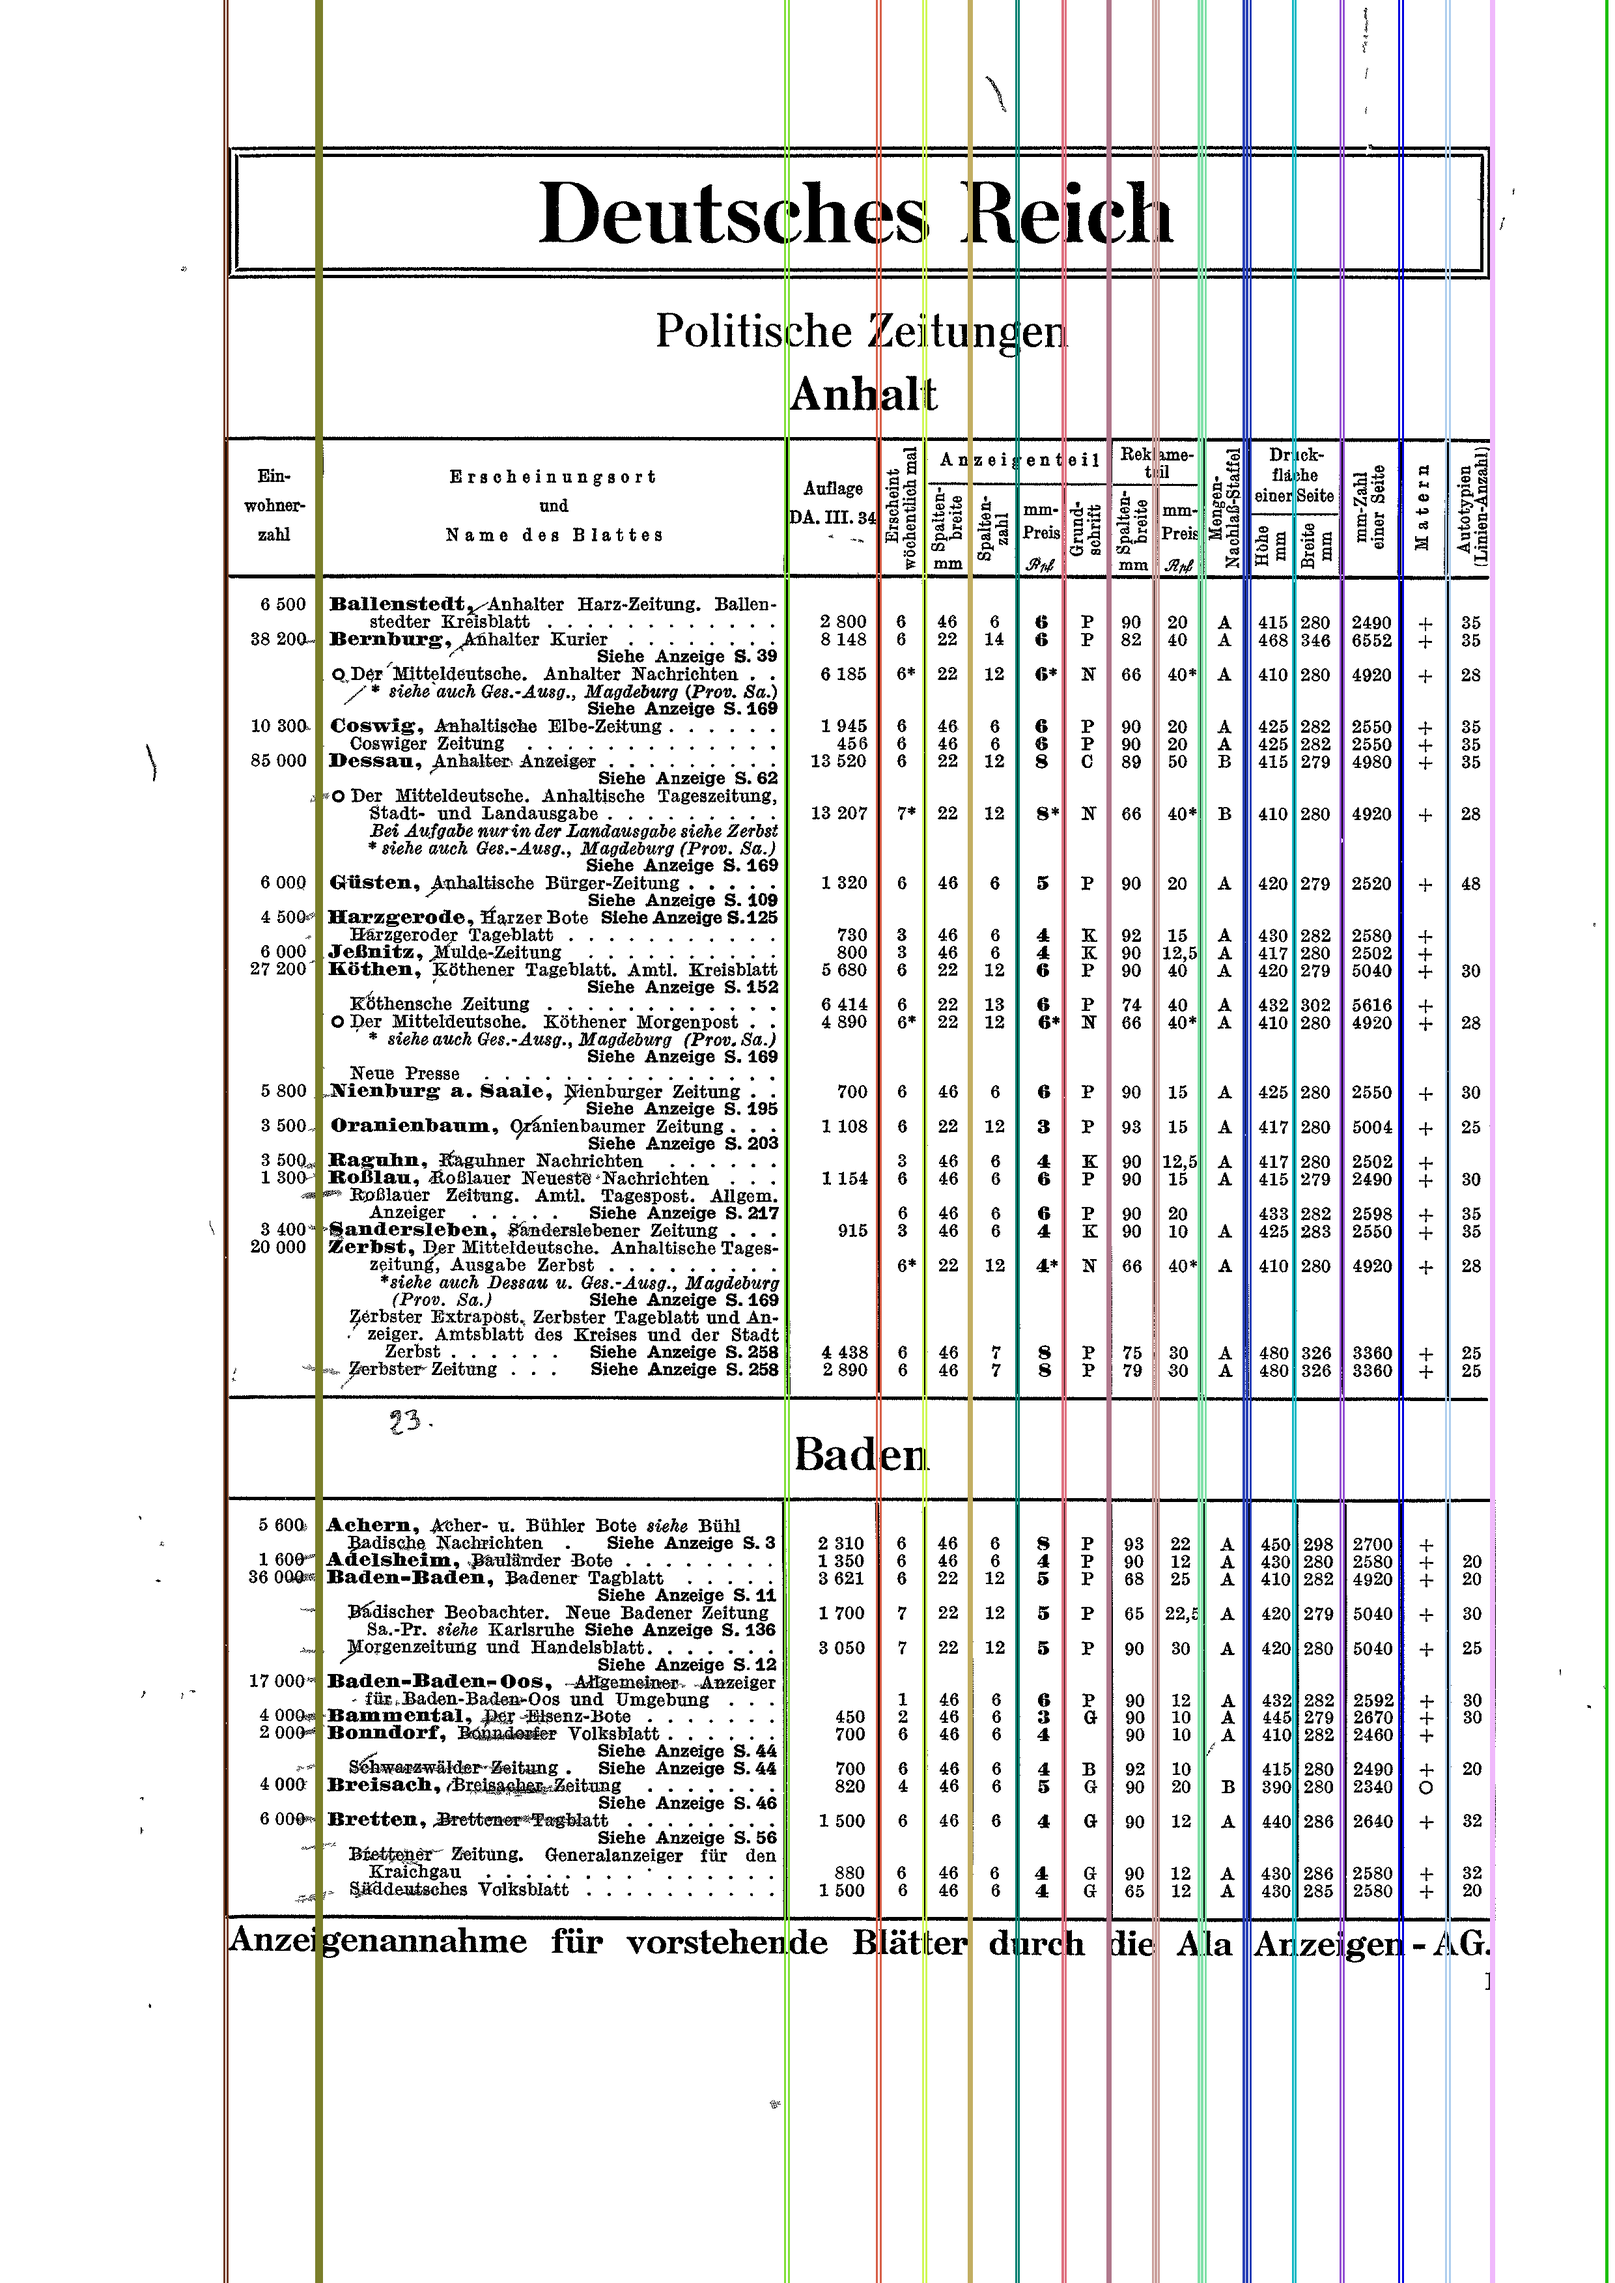
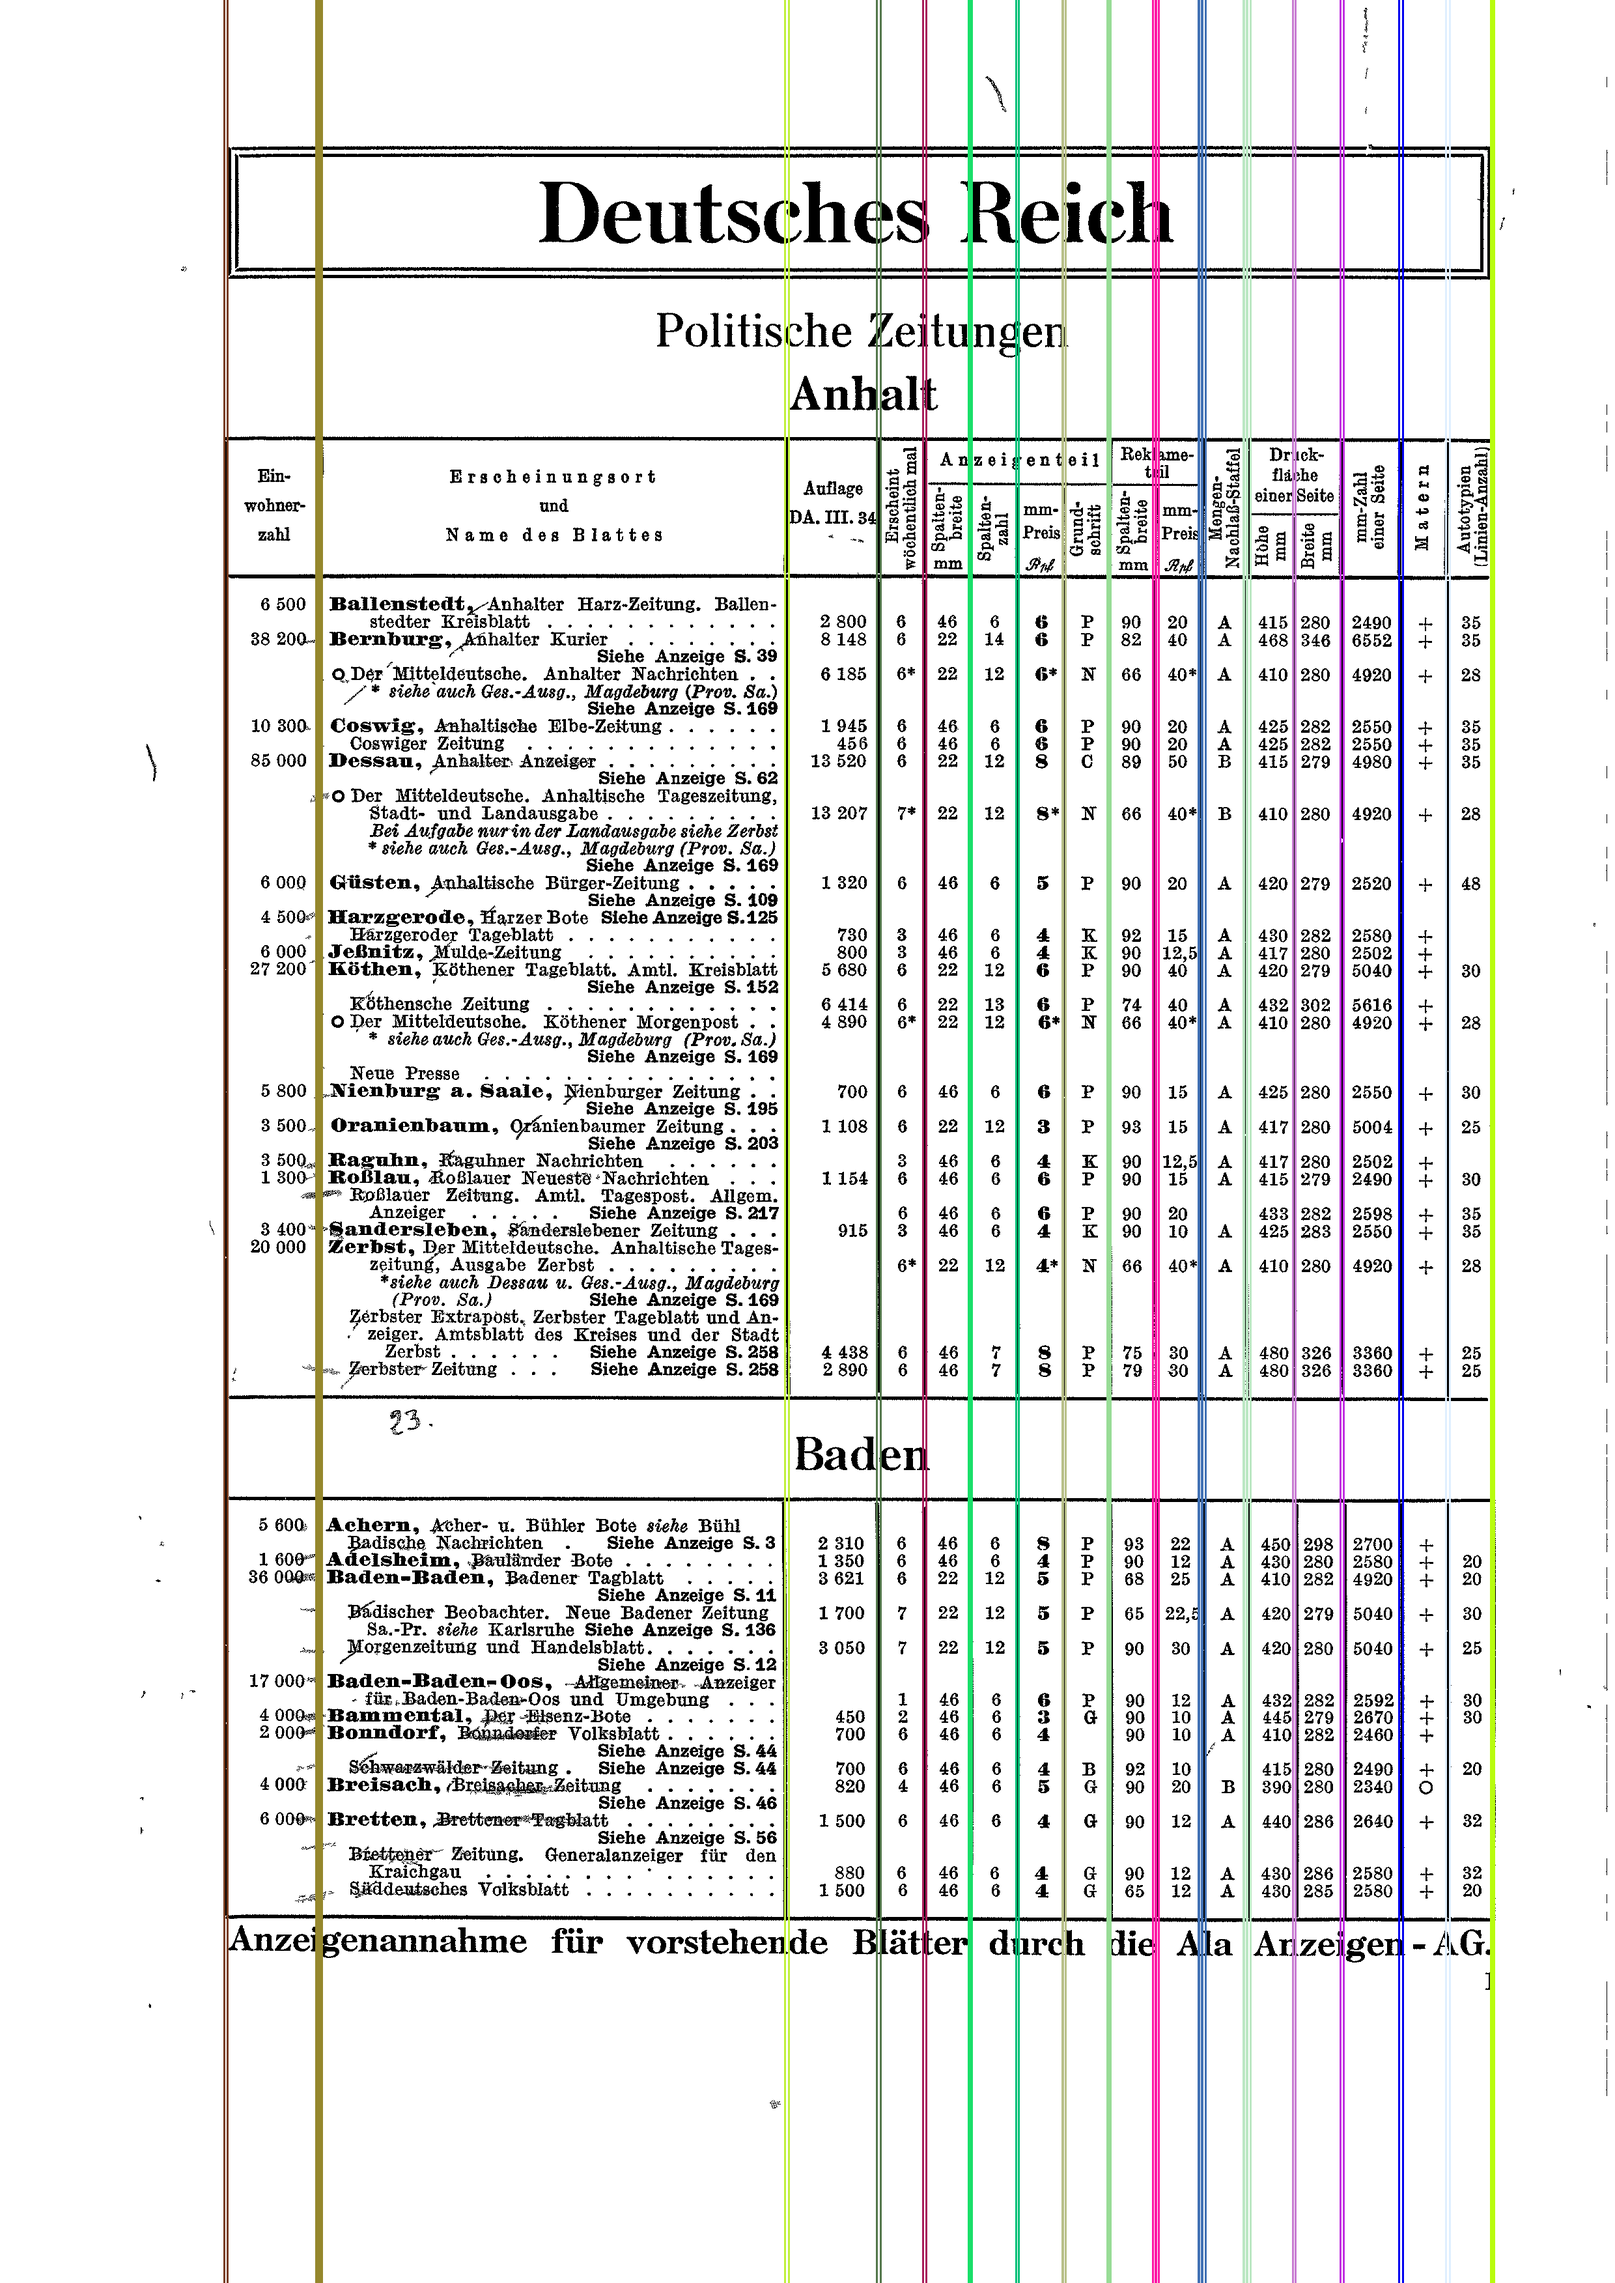
added option to remove empty clusters in ImageProc.find_clusters

diff --git a/pdftabextract/clustering.py b/pdftabextract/clustering.py
@@ -13,6 +13,7 @@ import numpy as np
 
 from pdftabextract.common import (fill_array_a_with_values_from_b, sorted_by_attr, flatten_list,
                                   DIRECTION_HORIZONTAL, DIRECTION_VERTICAL)
+from pdftabextract.textboxes import split_texts_by_positions
 
 
 #%% Clustering
@@ -50,9 +51,7 @@ def find_clusters_1d_break_dist(vals, dist_thresh):
 
 
 #%% Cluster adjustment
-
-def get_adjusted_cluster_centers(clusters, n_required_clusters, max_range_deviation,
-                                 find_center_clusters_method, **kwargs):
+def get_adjusted_cluster_centers(clusters, n_required_clusters, find_center_clusters_method, **kwargs):
     """
     From a dict containing clusters per page, find the cluster centers and apply some adjustments to them
     (filter bad values, interpolate missing values).
@@ -62,7 +61,6 @@ def get_adjusted_cluster_centers(clusters, n_required_clusters, max_range_deviat
     If parameter <return_center_clusters_diffsums> is True, additionally return a dict with summed differences between
     found centers and "model" centers as quality measure.
     <n_required_clusters> is the number of cluster centers (i.e. number of columns or lines) to be found.
-    <max_range_deviation> is the maximum deviation of the centers range of a page from the median range.
     <find_center_clusters_method> is the clustering method to cluster aligned ("normalized") centers (<kwargs> will
     be passed to this function).
     <image_scaling> is an optional parameter: dict with page number -> <scaling> mapping with which the
@@ -71,32 +69,19 @@ def get_adjusted_cluster_centers(clusters, n_required_clusters, max_range_deviat
     return_center_clusters_diffsums = kwargs.pop('return_center_clusters_diffsums', False)
     image_scaling = kwargs.pop('image_scaling', None)
     
-    # 1. Filter for pages with clusters whose min/max range is acceptable
-    # (i.e. the deviation from the median is below a certain threshold)
-    all_clusters_centers_range = {}
+    # 1. Align the cluster centers so that they all start with 0 and create a flat list that contains all centers
     all_clusters_centers = {}
     for p_num, clusters_w_vals in clusters.items():
-        all_clusters_centers_range[p_num], all_clusters_centers[p_num] = calc_cluster_centers_range(clusters_w_vals,
-                                                                                                    return_centers=True)
-    median_range = np.median(list(all_clusters_centers_range.values()))
+        all_clusters_centers[p_num] = calc_cluster_centers_1d(clusters_w_vals)
     
-    good_page_nums = [p_num for p_num, centers_range in all_clusters_centers_range.items()
-                      if abs(centers_range - median_range) <= max_range_deviation]
-    
-    if len(good_page_nums) < 1:
-        raise RuntimeError('At least one page with clusters that have an accaptable min/max range must be found.')
-
-    good_cluster_centers = {p_num: all_clusters_centers[p_num] for p_num in good_page_nums}
-    
-    # 2. Align the cluster centers so that they all start with 0 and create a flat list that contains all centers
     centers_norm = []
-    for p_num, centers in good_cluster_centers.items():
+    for p_num, centers in all_clusters_centers.items():
         centers = np.array(centers)
         centers_norm.extend(centers - centers[0])
     
     centers_norm = np.array(centers_norm)
 
-    # 3. Clustering second pass: Cluster aligned ("normalized") centers and filter them
+    # 2. Clustering second pass: Cluster aligned ("normalized") centers and filter them
     centers_norm_clusters_ind = find_center_clusters_method(centers_norm, **kwargs)
     centers_norm_clusters = zip_clusters_and_values(centers_norm_clusters_ind, centers_norm)
     
@@ -118,7 +103,7 @@ def get_adjusted_cluster_centers(clusters, n_required_clusters, max_range_deviat
     
     center_norm_medians = np.array(sorted(center_norm_medians))
 
-    # 4. Adjust the cluster centers by finding the best matching array to <center_norm_medians> if sizes differ
+    # 3. Adjust the cluster centers by finding the best matching array to <center_norm_medians> if sizes differ
     adjusted_centers = {}
     diffsums = {} if return_center_clusters_diffsums else None
     for p_num, centers in all_clusters_centers.items():
@@ -139,9 +124,26 @@ def get_adjusted_cluster_centers(clusters, n_required_clusters, max_range_deviat
         return adjusted_centers, diffsums
     else:
         return adjusted_centers
+
+
+def remove_empty_sections(positions, texts, direction, considered_empty_ratio):
+    if direction not in (DIRECTION_HORIZONTAL, DIRECTION_VERTICAL):
+        raise ValueError("direction must be  DIRECTION_HORIZONTAL or DIRECTION_VERTICAL (see pdftabextract.common)")
         
+    texts_in_secs = split_texts_by_positions(texts, positions, direction,
+                                             discard_empty_sections=False,
+                                             enrich_with_positions=True)
+    max_n_texts = max(map(len, [tup[0] for tup in texts_in_secs]))
+    n_texts_thresh = round(max_n_texts * considered_empty_ratio)
+    filtered_positions = []
+    for texts, (_, pos) in texts_in_secs:
+        if len(texts) > n_texts_thresh:
+            filtered_positions.append(pos)
+    
+    return filtered_positions
+
         
-def merge_overlapping_sections(texts_in_secs, direction, overlap_thresh):
+def merge_overlapping_sections_of_texts(texts_in_secs, direction, overlap_thresh):
     """
     Merge overlapping sections of texts in <direction> whose consecutive
     "distance" or overlap (when the distance is negative) is less than <overlap_thresh>.
@@ -184,9 +186,9 @@ def merge_overlapping_sections(texts_in_secs, direction, overlap_thresh):
     assert len(flatten_list(texts_in_secs)) == len(flatten_list(merged_secs))
     
     return merged_secs
+    
 
-
-def merge_small_sections(texts_in_secs, min_num_texts):
+def merge_small_sections_of_texts(texts_in_secs, min_num_texts):
     """
     Merge sections that are too small, i.e. have too few "content" which means that their number
     of texts is lower than or equal <min_num_texts>.

diff --git a/pdftabextract/imgproc.py b/pdftabextract/imgproc.py
@@ -17,7 +17,6 @@ from pdftabextract.common import ROTATION, SKEW_X, SKEW_Y, DIRECTION_HORIZONTAL,
 from pdftabextract.geom import normalize_angle, project_polarcoord_lines
 from pdftabextract.clustering import zip_clusters_and_values
 
-
 PIHLF = np.pi / 2
 PI4TH = np.pi / 4
 
@@ -87,7 +86,6 @@ class ImageProc:
         
         return self.lines_hough
 
-    
     def ab_lines_from_hough_lines(self, lines_hough):
         """
         From a list of lines <lines_hough> in polar coordinate space, generate lines in cartesian coordinate space
@@ -174,7 +172,14 @@ class ImageProc:
 
         return None, None
     
-    def find_clusters(self, direction, method, **method_kwargs):
+    def find_clusters(self, direction, method, **kwargs):
+        remove_empty_cluster_sections_use_texts = kwargs.pop('remove_empty_cluster_sections_use_texts', None)
+        if remove_empty_cluster_sections_use_texts is not None:
+            remove_empty_cluster_sections_n_texts_ratio = kwargs.pop('remove_empty_cluster_sections_n_texts_ratio')
+            remove_empty_cluster_sections_scaling = kwargs.pop('remove_empty_cluster_sections_scaling')
+            remove_empty_cluster_sections_clust_center_fn = kwargs.pop('remove_empty_cluster_sections_clust_center_fn',
+                                                                       np.median)
+        
         if direction not in (DIRECTION_HORIZONTAL, DIRECTION_VERTICAL):
             raise ValueError("invalid value for 'direction': '%s'" % direction)
         
@@ -186,7 +191,7 @@ class ImageProc:
         coord_idx = 0 if direction == DIRECTION_VERTICAL else 1
         positions = np.array([(l[0][coord_idx] + l[1][coord_idx]) / 2 for l in lines_ab])
         
-        clusters = method(positions, **method_kwargs)
+        clusters = method(positions, **kwargs)
         
         if type(clusters) != list:
             raise ValueError("'method' returned invalid clusters (must be list)")
@@ -194,7 +199,41 @@ class ImageProc:
         if len(clusters) > 0 and type(clusters[0]) != np.ndarray:
             raise ValueError("'method' returned invalid cluster elements (must be list of numpy.ndarray objects)")
         
-        return zip_clusters_and_values(clusters, positions)
+        clusters_w_vals = zip_clusters_and_values(clusters, positions)
+        
+        if remove_empty_cluster_sections_use_texts is not None:
+            if direction == DIRECTION_HORIZONTAL:
+                t_attr = 'top', 'bottom'
+            else:
+                t_attr = 'left', 'right'
+                
+            clusters_w_vals_and_centers = [(ind, vals, remove_empty_cluster_sections_clust_center_fn(vals) / remove_empty_cluster_sections_scaling)
+                                           for ind, vals in clusters_w_vals]
+            clusters_w_vals_and_centers = sorted(clusters_w_vals_and_centers, key=lambda x: x[2])
+            clusters_w_vals_and_n_texts = []
+            prev_center = -1
+            for ind, vals, center in clusters_w_vals_and_centers:
+                texts = [t for t in remove_empty_cluster_sections_use_texts
+                         if prev_center < t[t_attr[0]] <= center or prev_center < t[t_attr[1]] <= center]
+                clusters_w_vals_and_n_texts.append((ind, vals, len(texts)))
+                prev_center = center
+            assert len(clusters_w_vals_and_n_texts) == len(clusters_w_vals)
+                
+            max_n_texts = np.median([tup[2] for tup in clusters_w_vals_and_n_texts])
+            n_texts_thresh = round(max_n_texts * remove_empty_cluster_sections_n_texts_ratio)
+            clusters_w_vals_filtered = []
+            prev_clust = None
+            for ind, vals, n_texts in clusters_w_vals_and_n_texts:
+                if n_texts >= n_texts_thresh:
+                    if not clusters_w_vals_filtered:
+                        clusters_w_vals_filtered.append(prev_clust)
+                    
+                    clusters_w_vals_filtered.append((ind, vals))
+                prev_clust = (ind, vals)
+            assert(len(clusters_w_vals_filtered) <= len(clusters_w_vals))
+            clusters_w_vals = clusters_w_vals_filtered
+        
+        return clusters_w_vals
             
     def draw_lines(self, orig_img_as_background=True):
         lines_ab = self.ab_lines_from_hough_lines(self.lines_hough)

diff --git a/examples/catalogue_30s_1/catalog_30s_1.py b/examples/catalogue_30s_1/catalog_30s_1.py
@@ -123,7 +123,10 @@ for p_num, p in pages.items():
     # cluster the detected *vertical* lines using find_clusters_1d_break_dist as simple clustering function
     # (break on distance MIN_COL_WIDTH/2)
     vertical_clusters = iproc_obj.find_clusters(imgproc.DIRECTION_VERTICAL, find_clusters_1d_break_dist,
-                                               dist_thresh=MIN_COL_WIDTH/2)
+                                                remove_empty_cluster_sections_use_texts=p['texts'],
+                                                remove_empty_cluster_sections_n_texts_ratio=0.1,
+                                                remove_empty_cluster_sections_scaling=pages_image_scaling[p_num][0],
+                                                dist_thresh=MIN_COL_WIDTH/2)
     print("> found %d clusters" % len(vertical_clusters))
     
     # draw the clusters
@@ -149,7 +152,6 @@ print("calculating column positions for all pages...")
 pages_image_scaling_x = {p_num: sx for p_num, (sx, _) in pages_image_scaling.items()}
 
 col_positions = get_adjusted_cluster_centers(vertical_lines_clusters, N_COL_BORDERS,
-                                             max_range_deviation=MIN_COL_WIDTH/2,
                                              find_center_clusters_method=find_clusters_1d_break_dist,
                                              dist_thresh=MIN_COL_WIDTH/2,
                                              image_scaling=pages_image_scaling_x)   # the positions are in "scanned
